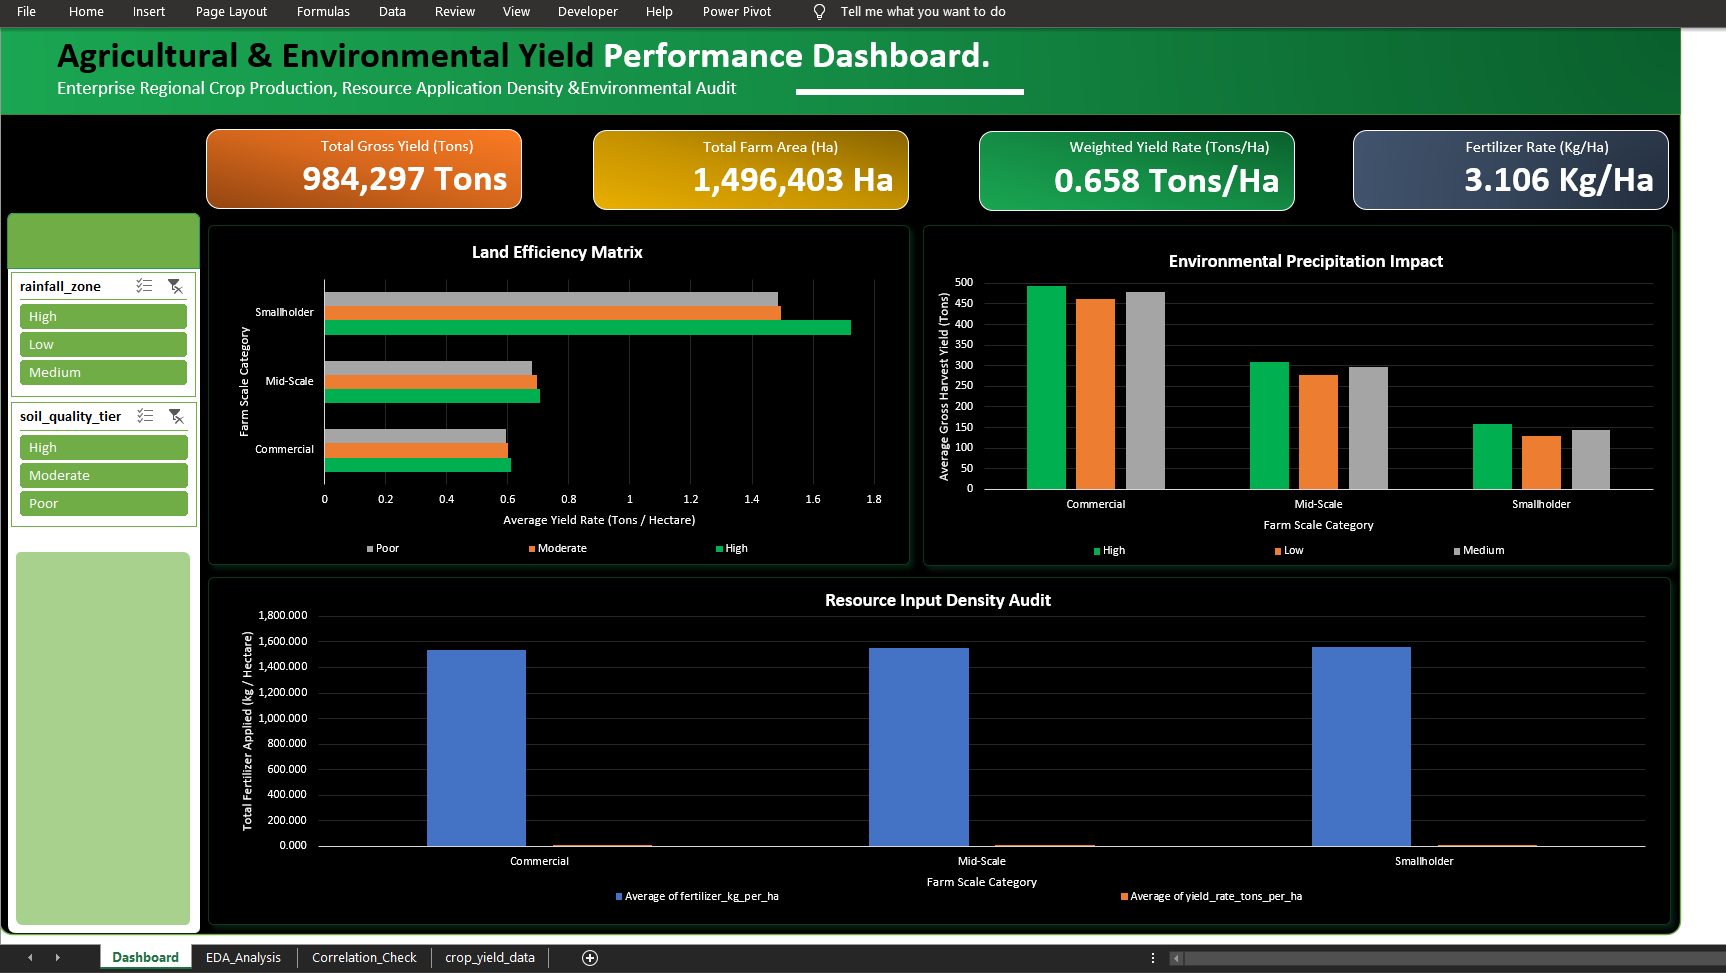
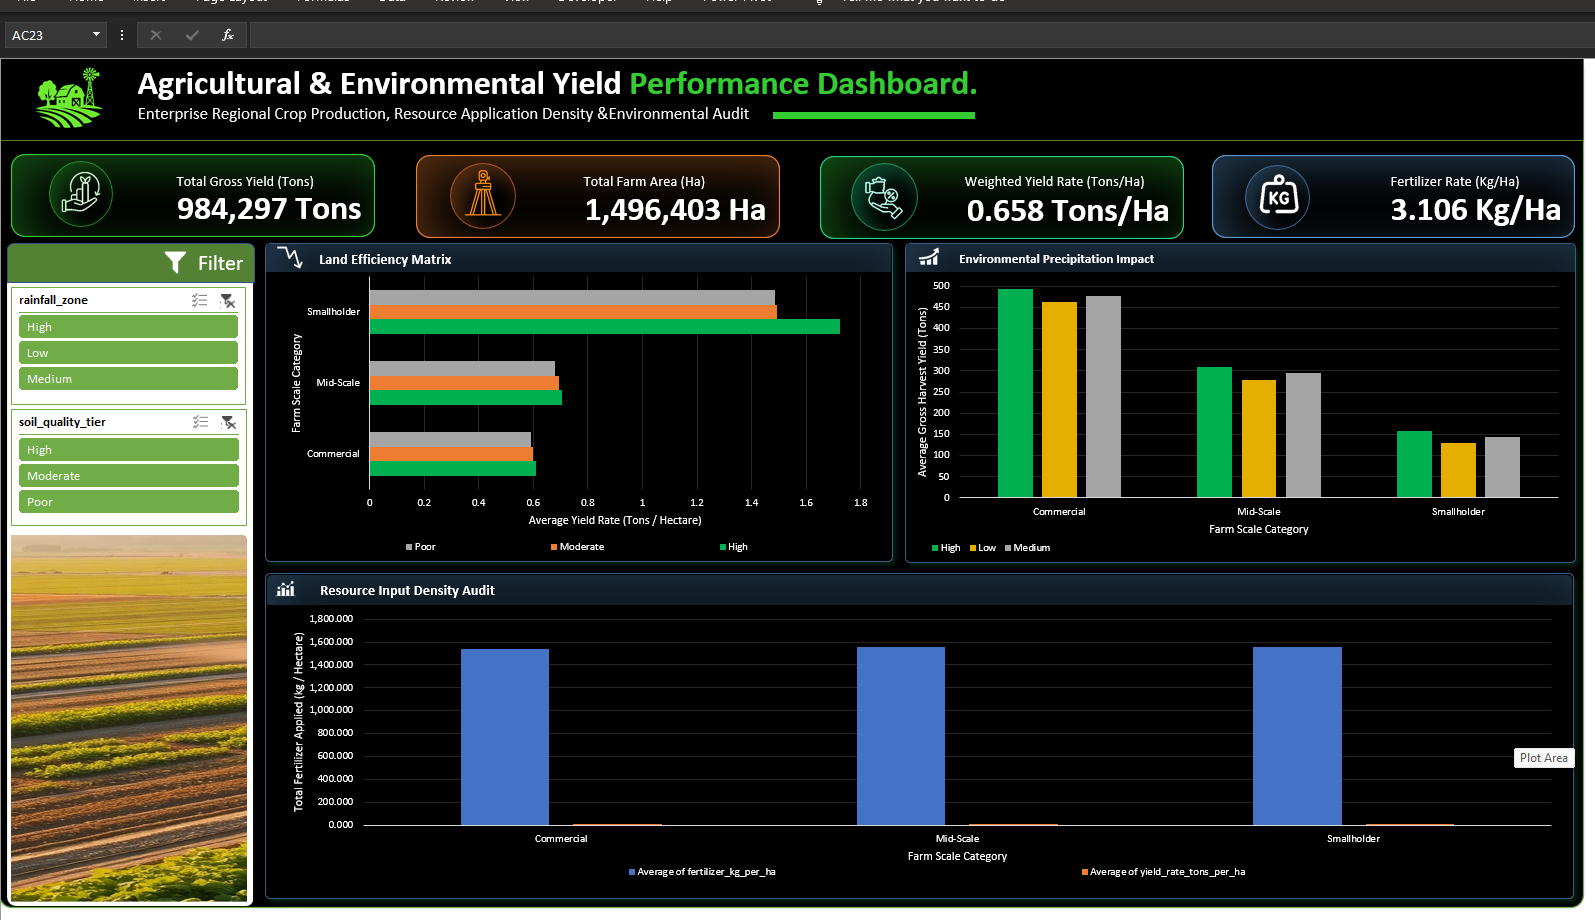
Finalize portfolio project publication

diff --git a/README.md b/README.md
@@ -1,23 +1,25 @@
 # Synthetic Agricultural Yield Analytics
 
-An Excel dashboard built on a synthetic dataset of 3,000 farm records. It reports total output, total area, yield per hectare and fertilizer rate, and compares them by farm scale, soil quality tier and rainfall zone.
+An Excel dashboard built on simulated farm performance data to explore relationships between output, area, soil quality, rainfall, fertilizer intensity, and farm scale.
 
-> **Data note:** The dataset is synthetic. It was generated from simulated farm and environmental features, not collected from real farms, and it has no location, date or crop-type field. Results describe this dataset only.
+> **Data note:** The public repository does not redistribute the underlying 3,000-row farm dataset or the Excel workbook. The original provenance and licensing of the raw rows could not be independently established, so this repository keeps the documentation, screenshots, and derived findings without publishing the raw file.
 
 ![Dashboard overview](images/dashboard-overview.png)
 
 ## What Was Done
 
-1. Loaded `crop_yield_data.csv` (3,000 rows, 6 fields) into Excel with Power Query.
-2. Checked the data: no missing values and no duplicate rows.
-3. Added derived fields: `farm_id`, `gross_yield_tons`, `yield_rate_tons_per_ha`, `fertilizer_kg_per_ha`, `farm_scale`, `soil_quality_tier`, `rainfall_zone`.
+1. Built the analysis from a local working copy of the farm-level data.
+2. Validated the source data for completeness and duplication checks.
+3. Added derived fields: `farm_id`, `gross_yield_tons`, `yield_rate_tons_per_ha`, `fertilizer_kg_per_ha`, `farm_scale`, `soil_quality_tier`, and `rainfall_zone`.
 4. Summarised the data in PivotTables.
-5. Built a dashboard with KPI cards, three charts and two slicers (soil quality tier, rainfall zone).
+5. Built a dashboard with KPI cards, three charts, and two slicers (soil quality tier, rainfall zone).
 6. Calculated the correlation between farm size and gross yield on the `Correlation_Check` sheet.
 
 ![Power Query editor](images/power-query-editor.png)
 
 ## Dataset
+
+The raw file `data/crop_yield_data.csv` is not redistributed in this public repository. The workbook in `dashboard/` is not published as a downloadable asset for the same reason. The field catalogue below describes the working schema used in the underlying analysis and the public-facing documentation.
 
 | Field | Range | Description |
 |---|---|---|
@@ -28,7 +30,7 @@ An Excel dashboard built on a synthetic dataset of 3,000 farm records. It report
 | `fertilizer_kg` | 100 – 3,000 | Fertilizer applied, kg per hectare |
 | `crop_yield` | 46 – 628 | Crop output per farm record |
 
-**Assumption:** The source describes `crop_yield` as tons per hectare. This project treats it as total output per farm record (`gross_yield_tons`) and derives yield per hectare by dividing by farm area. The assumption could not be confirmed against a real-world source because the data is synthetic.
+**Assumption:** The source describes `crop_yield` as tons per hectare. This project treats it as total output per farm record (`gross_yield_tons`) and derives yield per hectare by dividing by farm area. The assumption could not be confirmed against a real-world source because the raw data is not redistributed here and the original provenance could not be independently established.
 
 ## Derived Fields
 
@@ -74,10 +76,8 @@ An Excel dashboard built on a synthetic dataset of 3,000 farm records. It report
 
 ```
 ├── README.md
-├── data/
-│   └── crop_yield_data.csv
-├── dashboard/
-│   └── agric_environmental_yield_performance.xlsm
+├── data/                     (raw farm dataset excluded from public repository)
+├── dashboard/                (public-facing workbook withheld from publication)
 ├── docs/
 │   ├── 1_Data_Dictionary_and_Field_Catalog.docx
 │   ├── 2_Executive_Briefing_and_Business_Insights.docx
@@ -92,13 +92,13 @@ An Excel dashboard built on a synthetic dataset of 3,000 farm records. It report
 
 ## How to Use
 
-1. Open the workbook in `dashboard/` in Excel (desktop version).
-2. Use the **Soil Quality Tier** and **Rainfall Zone** slicers to filter the dashboard.
-3. The `Correlation_Check` sheet shows the correlation between farm size and gross yield.
-4. To refresh: **Data → Refresh All**, then refresh each PivotTable on `EDA_Analysis`.
-5. The data source path in Power Query is specific to the original computer. After downloading, edit the path in the query's Source step before refreshing.
+This public repository is documentation-first: reviewers can inspect the methodology, checks, and screenshots without accessing the original raw records. The original workbook and raw CSV were excluded because their provenance/licensing could not be independently verified.
 
-See `docs/` for the data dictionary, briefing, technical documentation and user manual.
+1. Review the dashboard screenshots and methodology in this repository.
+2. Use the documentation in `docs/` to understand the analysis flow and conclusions.
+3. Do not expect the raw rows to be regenerated from this public repository alone.
+
+See `docs/` for the data dictionary, briefing, technical documentation, and user manual.
 
 ## Tools
 
